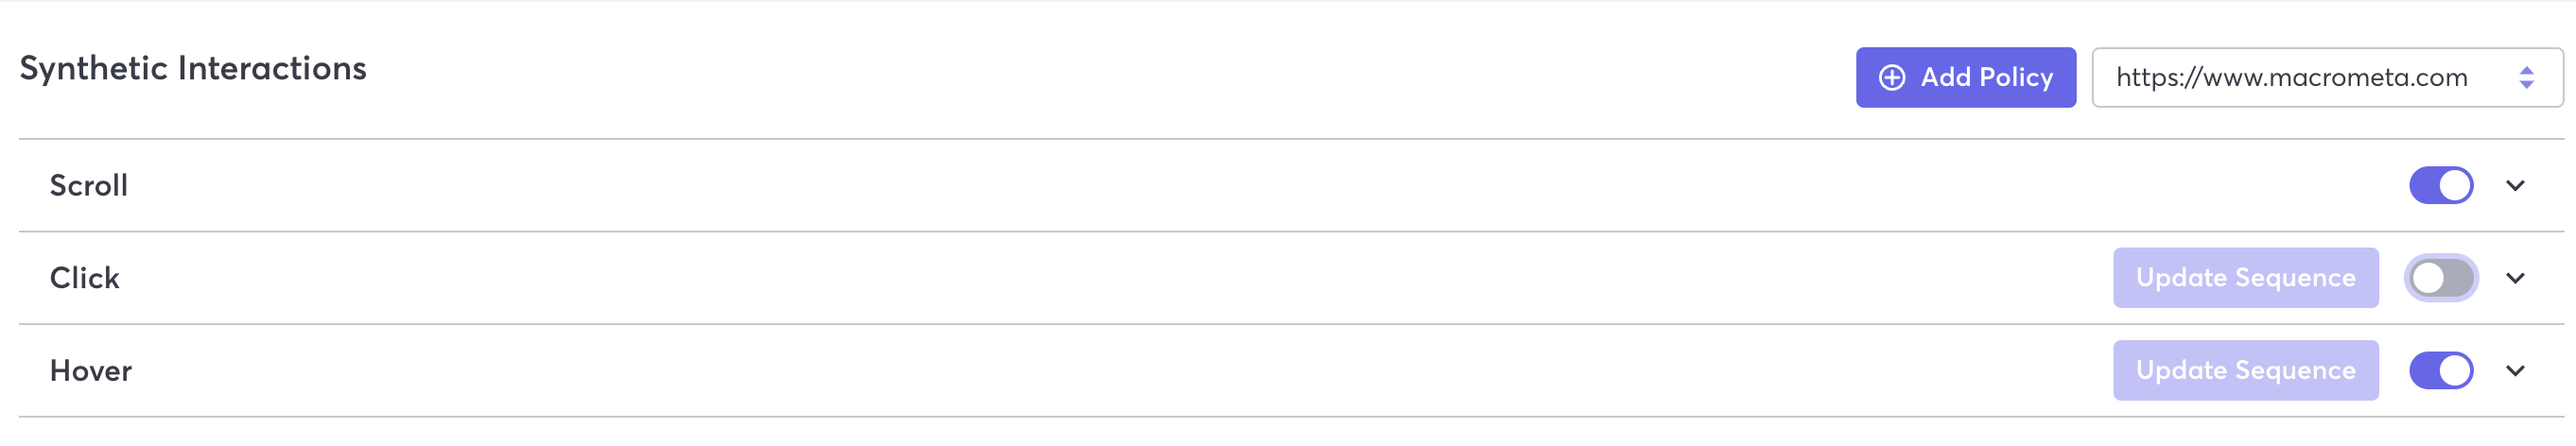
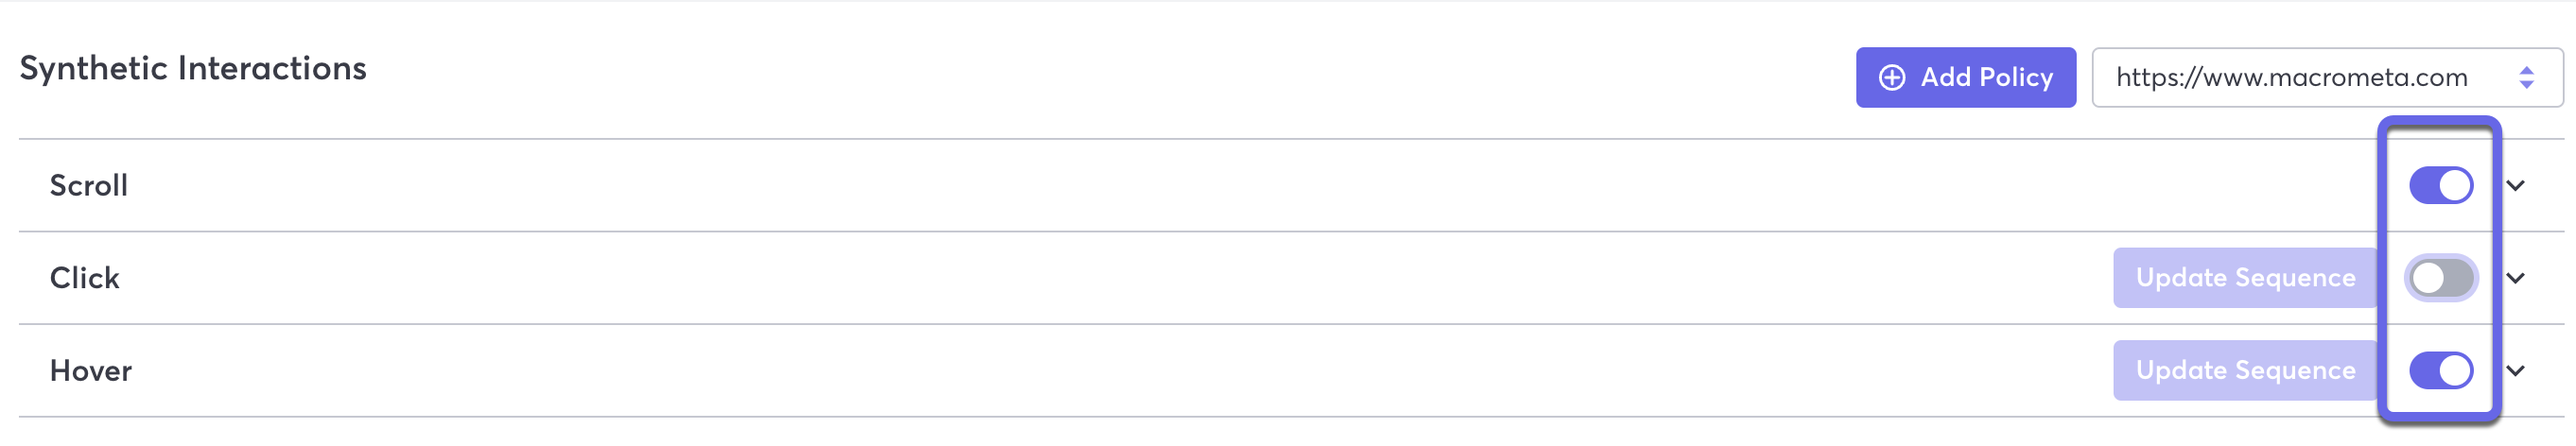
edits

Changed region(s): [[0.9049, 0.2373, 0.9985, 0.9788]]

diff --git a/docs/photoniq/prerendering/synthetic-interactions/enable-disable-synthetic-interactions.md b/docs/photoniq/prerendering/synthetic-interactions/enable-disable-synthetic-interactions.md
@@ -10,16 +10,18 @@ You have several options for enabling and disabling Prerendering synthetic inter
 - **Synthetic Interactions tab** - You can view enable or disable interactions for an origin on the Synthetic Interactions tab in the web console.
 - **REST API** - Macrometa provides an API call that allows you to enable or disable interactions for an origin.
 
-## Enable or Disable All Scroll Interactions
+## Enable or Disable All Synthetic Interactions
 
-Follow these instructions to enable or disable all scroll interactions in the web console.
+Follow these instructions to enable or disable all synthetic interactions of a particular type in the web console.
 
 1. Log in to your Prerendering dashboard.
 2. Click **Synthetic Interactions**.
 3. Select an origin to enable or disable interactions for.
-4. Click the toggle next to Scroll to enable or disable all scroll interactions.
+4. Click the toggle next to the name of the type of synthetic interactions that you want to enable or disable.
 
-## Enable or Disable a Specific Scroll Interaction
+![Enable or Disable All Synthetic Interactions](/img/prerendering/enable-disable-all-synthetic-interactions.png)
+
+## Enable or Disable a Specific Synthetic Interaction
 
 <Tabs groupId="operating-systems2">
 <TabItem value="console" label="Web Console">
